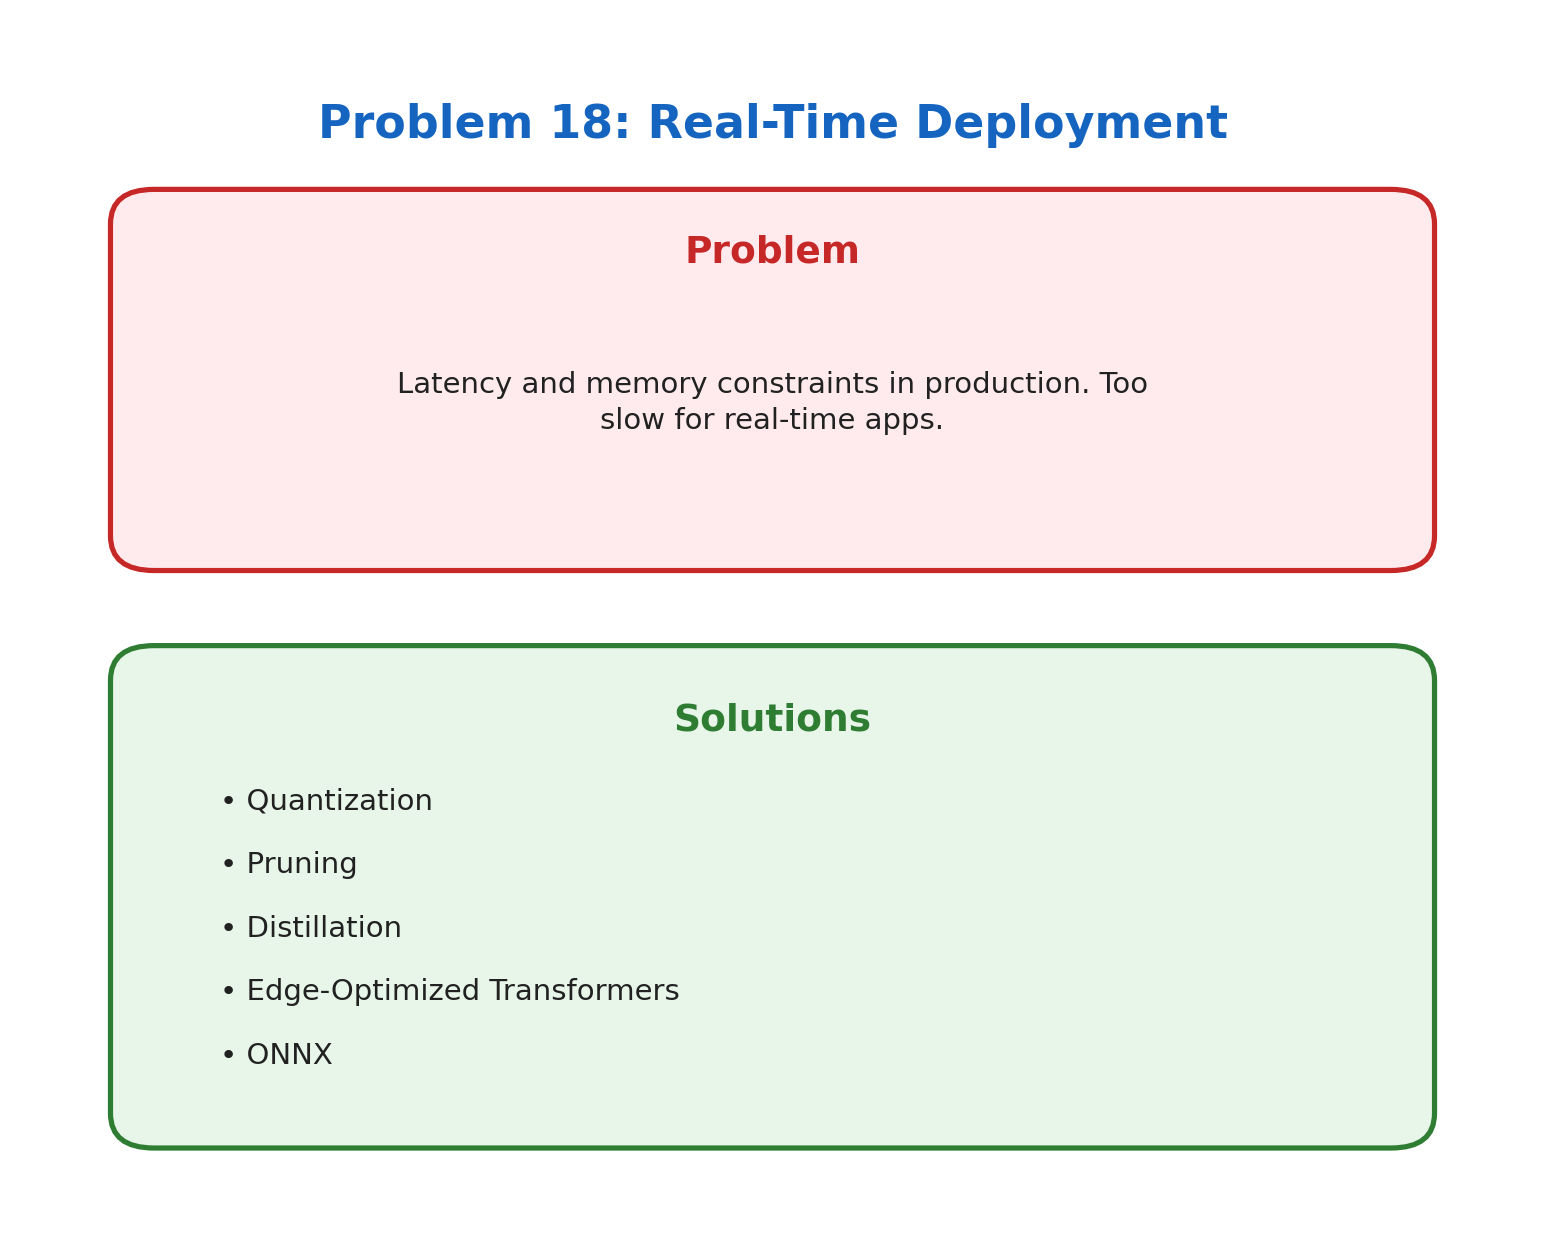
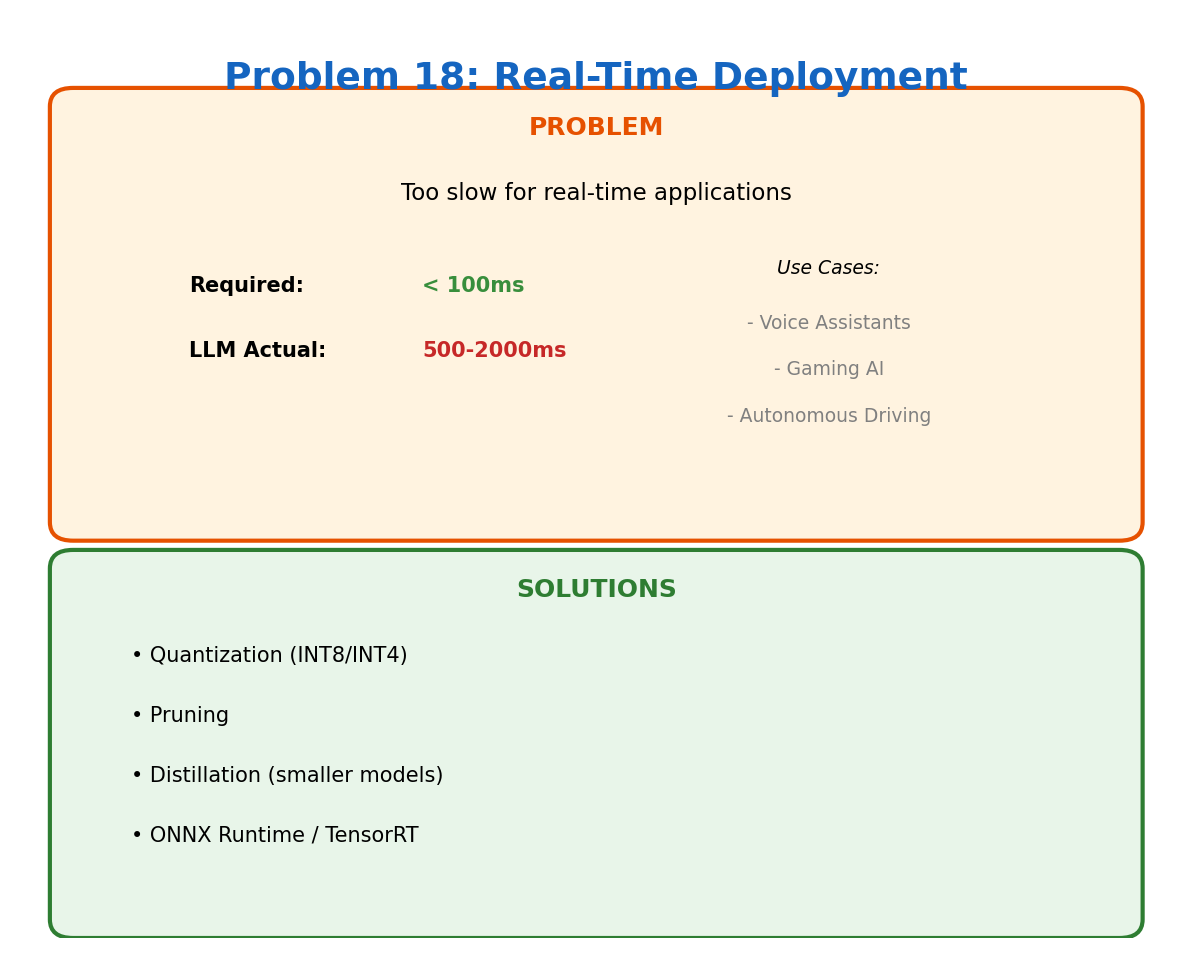
Update Problem 18: Real-Time Deployment - human-readable README

diff --git a/18_realtime_deployment/README.md b/18_realtime_deployment/README.md
@@ -1,25 +1,78 @@
 # Problem 18: Real-Time Deployment
 
-## Problem
+[← Back to Main](../README.md) | [← Previous](../17_hardware_inefficiency/README.md)
 
-Latency and memory constraints in production. Too slow for real-time apps.
+---
 
-Deploying Transformers in production environments with strict latency requirements (< 100ms) is challenging. Real-time applications like voice assistants need fast inference.
+![Problem 18](./problem.png)
 
-## Solutions
+## What's the Problem?
 
-| Solution | Description |
-|----------|-------------|
-| **Quantization** | Reduce precision (FP16, INT8, INT4) for faster inference |
-| **Pruning** | Remove redundant weights and attention heads |
-| **Distillation** | Train smaller, faster models that mimic larger ones |
-| **Edge-Optimized Transformers** | Architectures designed for edge deployment |
-| **ONNX** | Export models to optimized runtime format |
+Your voice assistant needs to respond in under 200ms to feel natural. Your game NPC needs to react in a single frame (16ms). Your autonomous car needs to make decisions in milliseconds.
 
-## References
+Meanwhile, a single forward pass through GPT-4 takes 500ms-2000ms. That's not real-time. That's "please wait while I think."
 
-- [ONNX Runtime](https://onnxruntime.ai/) - Cross-platform ML Acceleration
-- [TensorRT](https://developer.nvidia.com/tensorrt) - NVIDIA Deep Learning Inference Optimizer
-- [DistilBERT](https://arxiv.org/abs/1910.01108) - Smaller, Faster, Cheaper, Lighter
-- [MobileBERT](https://arxiv.org/abs/2004.02984) - A Compact Task-Agnostic BERT
+Real-time applications need:
+- Low latency (fast response)
+- Consistent latency (no random spikes)  
+- Low memory (for edge devices)
+- Low power (for mobile/embedded)
 
+Transformers struggle with all of these.
+
+## The Latency Budget
+
+| Application | Latency Requirement | LLM Reality |
+|-------------|--------------------| ------------|
+| Voice assistant | < 200ms | 500-2000ms |
+| Game NPC | < 16ms | Way off |
+| Autocomplete | < 100ms | Maybe |
+| Autonomous driving | < 50ms | Not happening |
+
+## Why So Slow?
+
+Several factors compound:
+1. **Model size**: Billions of parameters to load/compute
+2. **Sequential generation**: One token at a time
+3. **Memory bandwidth**: Can't feed the GPU fast enough
+4. **Batch size 1**: Real-time means single requests, no batching efficiency
+
+## How Do We Fix It?
+
+| Approach | Latency Reduction |
+|----------|-------------------|
+| **Quantization** | INT8/INT4 runs 2-4x faster than FP16 |
+| **Pruning** | Remove 50%+ of weights with minimal quality loss |
+| **Distillation** | Smaller model, faster inference |
+| **Speculative Decoding** | Guess multiple tokens, verify in parallel |
+| **TensorRT/ONNX** | Optimized inference runtimes |
+| **Edge Models** | Purpose-built small models (Phi, Gemma) |
+
+## The Quantization Revolution
+
+Moving from FP16 to INT4:
+- 4x smaller model
+- 2-4x faster computation
+- Often <1% accuracy loss
+
+This is why consumer apps can now run 7B models locally. GGML/llama.cpp made this accessible.
+
+## The Real-Time Reality
+
+For truly real-time applications today, you typically need:
+- Smaller models (1-7B parameters)
+- Heavy quantization (4-bit)
+- Speculative decoding
+- Optimized serving stack (vLLM, TensorRT-LLM)
+
+Or... don't use transformers. For some applications, specialized smaller models or even classical algorithms still win on latency.
+
+## Learn More
+
+- [TensorRT-LLM](https://github.com/NVIDIA/TensorRT-LLM) — NVIDIA's optimized inference
+- [llama.cpp](https://github.com/ggerganov/llama.cpp) — CPU inference with quantization
+- [vLLM](https://github.com/vllm-project/vllm) — High-throughput serving
+
+---
+
+[← Back to Main](../README.md) | [← Previous](../17_hardware_inefficiency/README.md)
